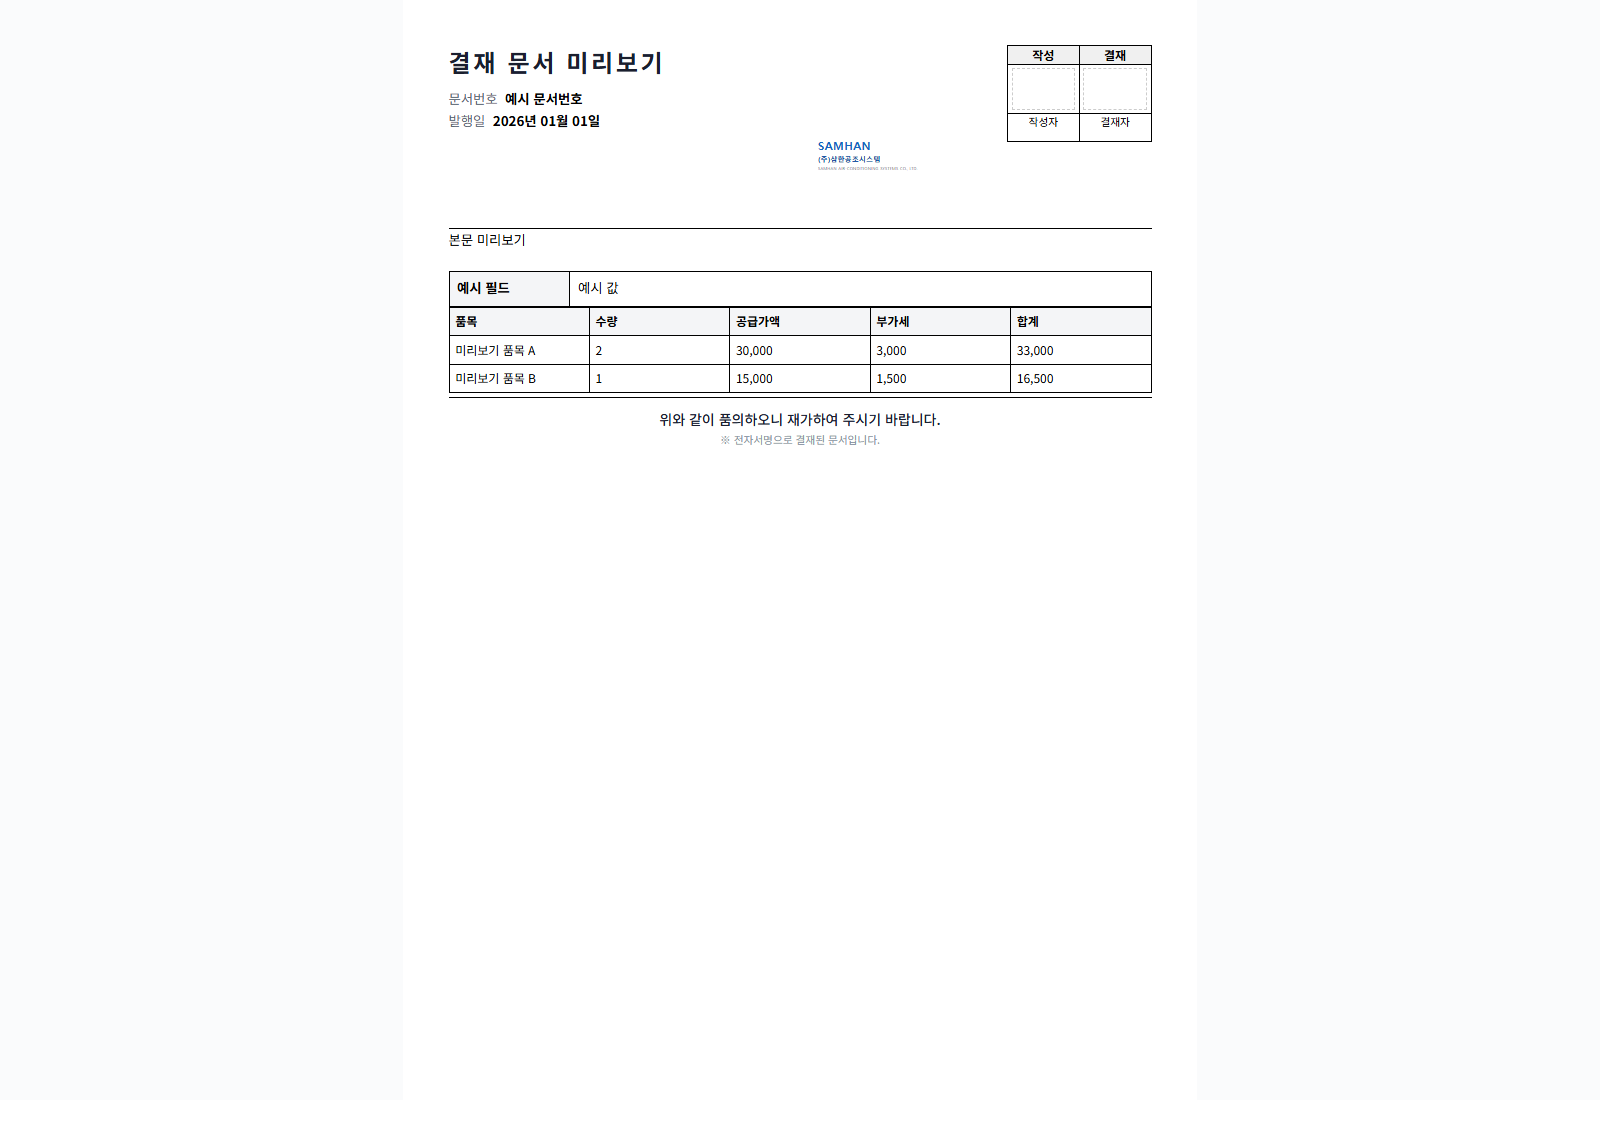
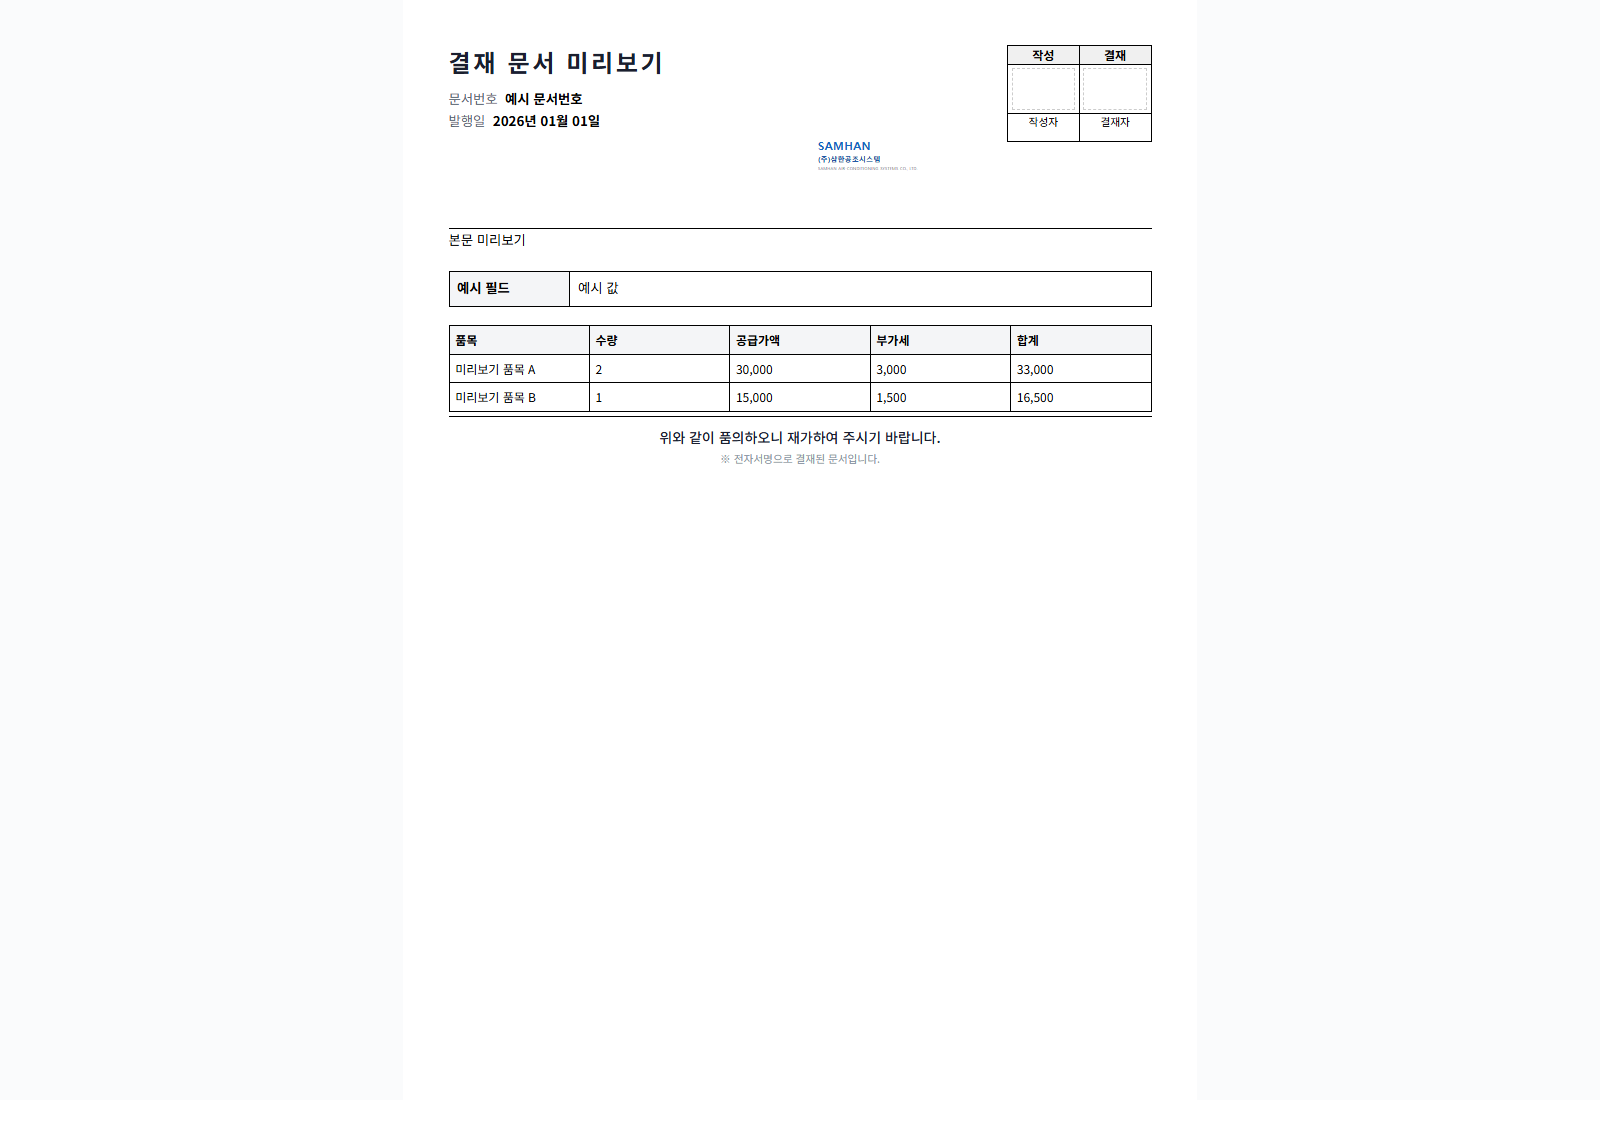
fix(869-DS4): 🔴 BODY 복수 positioned 요소가 각각 별도 밴드로 출력되는 회귀 (SOL 도달가능)
CODEX SOL 5.6 재수렴 라운드가 baseline diff 확증과 함께 잡아낸 [NEW][MAJOR] 도달가능 결함.

■ 사용자가 겪던 것
편집기에서 TEXT 와 FIELD 를 BODY 에 같은 y·다른 x 로 나란히 배치해도 나란히
나오지 않고, 두 번째 요소가 약 29mm 아래로 밀렸다. 요소마다 min-height:24mm
레이어가 생기고 grid gap 5mm 까지 더해졌기 때문이다.
기존 v2 양식의 페이지 길이·요소 위치가 바뀌고 뒤 내용이 다음 페이지로 밀릴 수 있었다.
🚨 DETAIL/IMAGE 가 없어도 재현되므로 활성화 게이트가 막아 주지 않았다.

■ 회귀 확정 (baseline diff)
  baseline e762a98a1  positionedElementLayer(bodyPositioned, …)  ← 전체를 한 번
  회귀     b7f3fccc5   positionedElementLayer([element], …)       ← 요소마다 한 번
요소 N개 → 레이어 N개. SOL 직접 재현: BODY_LAYER_COUNT=2 · MIN_HEIGHT_24MM_COUNT=2
이 PR 이 새로 만든 [NEW] 회귀임을 확증했다.

■ 불변식 충족 (PM 은 불변식만 전달, 구현 수단은 구현자 판단)
  R1 같은 좌표 원점   BODY 콘텐츠 자체를 단일 position:relative 원점으로 사용
  R2 문서 길이 불변   min-height:24mm 예약을 BODY 전체에서 한 번만 적용
  R3 O1 순서 유지     bodyElements.map 순서 유지·요소 재조립 없음
                      🔑 요소별 분리는 legacy 섹션 대비 선언 순서를 얻으려 도입된 것이라,
                         순서를 되돌려 해결하는 것은 결함을 다른 결함으로 바꾸는 것일 뿐이다
  R4 v1 DOM 불변      v1 은 positionedLayer=false 로 기존 DOM/스타일 유지

■ RED-first
  RED        AssertionError: expected +0 to be 1   (1 failed | 13 passed)
  GREEN      14 passed (14)
  뮤테이션    fix 되돌림 → 동일 RED 재현
🔑 기존 테스트가 이 회귀를 놓친 이유 = DocumentRenderer.test.tsx:158 이 정확히
   BODY TEXT+FIELD 두 개를 쓰면서도 문자열 존재만 검사해 레이어 수·좌표 원점·
   실제 rect 를 안 봤다. 새 테스트는 구별되는 출력을 단언한다.

■ 검증
  DocumentRenderer + fixtures   22 passed (22)
  eslint                        exit 0
  desktop typecheck             RC=0 · error 0

⚠ 구현자가 "SlipFormPage.tsx 타입 오류 잔존" 을 보고했으나 PM 확인 결과
[…]

Changed region(s): [[0.2812, 0.2805, 0.7188, 0.4363], [0.375, 0.2805, 0.4062, 0.3117]]

diff --git a/clients/desktop/src/renderer/print/DocumentRenderer.tsx b/clients/desktop/src/renderer/print/DocumentRenderer.tsx
@@ -269,6 +269,7 @@ export function compileApprovalDocument(
   const footerPositioned = positionedElementsOf(
     template.document.bands.filter((band) => band.kind === 'FOOTER').flatMap((band) => band.elements),
   )
+  const bodyPositioned = positionedElementsOf(bodyElements)
 
   const docHeader: PrintDocHeader = {
     title: model.header.title,
@@ -291,10 +292,12 @@ export function compileApprovalDocument(
       )
     }
     if (element.type === 'FIELD' || element.type === 'TEXT' || element.type === 'IMAGE') {
-      return positionedElementLayer([element], model, `document-template-v2-element-${element.key}`, element.key)
+      return element.type === 'IMAGE'
+        ? renderImageElement(element)
+        : renderPositionedElement(element, model)
     }
     return null
-  }).filter((child): child is ReactNode => child !== null)
+  }).filter((child) => child !== null)
 
   return {
     paper: paperToPrintLayout(template.document.paper),
@@ -304,7 +307,7 @@ export function compileApprovalDocument(
     // BODY children은 band의 원래 element 순서 그대로 하나의 print-content wrapper에 넣는다.
     // DETAIL/legacy section/positioned element를 별도 레이어로 재조립하면 편집기 순서와 출력 순서가
     // 갈라지므로, 같은 배열을 preview와 print가 공유한다.
-    body: <LegacyApprovalDocBody>{bodyChildren}</LegacyApprovalDocBody>,
+    body: <LegacyApprovalDocBody positionedLayer={bodyPositioned.length > 0}>{bodyChildren}</LegacyApprovalDocBody>,
     headerExtra: positionedElementLayer(headerPositioned, model, 'document-template-v2-elements-header'),
     footerExtra: positionedElementLayer(footerPositioned, model, 'document-template-v2-elements-footer'),
     hasRepeatingDetail: bodyDetails.length > 0,

diff --git a/clients/desktop/src/renderer/print/DocumentRenderer.test.tsx b/clients/desktop/src/renderer/print/DocumentRenderer.test.tsx
@@ -182,6 +182,43 @@ describe('compileApprovalDocument and DocumentRenderer', () => {
     expect(html).toContain('DOC-2026-001')
   })
 
+  it('DS-4 regression: BODY positioned 요소는 하나의 좌표 레이어를 공유한다', () => {
+    const model = buildApprovalRenderModel(input())
+    const template = {
+      ...GROUPWARE_DEFAULT,
+      schemaVersion: 2 as const,
+      document: {
+        ...GROUPWARE_DEFAULT.document,
+        bands: GROUPWARE_DEFAULT.document.bands.map((band) => band.kind === 'BODY'
+          ? {
+              ...band,
+              elements: [
+                {
+                  key: 'body-text-left',
+                  type: 'TEXT' as const,
+                  text: '왼쪽 본문 요소',
+                  geometry: { x: 10, y: 20, w: 20, h: 5 },
+                },
+                {
+                  key: 'body-field-right',
+                  type: 'FIELD' as const,
+                  binding: 'header.docNo' as const,
+                  geometry: { x: 60, y: 20, w: 20, h: 5 },
+                },
+              ],
+            }
+          : band),
+      },
+    }
+
+    const html = render(<DocumentRenderer template={template as never} model={model} />)
+
+    expect((html.match(/data-testid="document-template-v2-elements-body"/g) ?? []).length).toBe(1)
+    expect((html.match(/style="[^"]*position:relative;min-height:24mm/g) ?? []).length).toBe(1)
+    expect(html).toContain('data-template-element="body-text-left"')
+    expect(html).toContain('data-template-element="body-field-right"')
+  })
+
   it('기본 template을 PrintLayout props 동형 slot으로 compile한다', () => {
     const model = buildApprovalRenderModel(input())
     const compiled = compileApprovalDocument(GROUPWARE_DEFAULT, model)

diff --git a/clients/desktop/src/renderer/print/LegacyApprovalDocBody.tsx b/clients/desktop/src/renderer/print/LegacyApprovalDocBody.tsx
@@ -15,6 +15,8 @@ export type LegacyApprovalDocSection =
 export interface LegacyApprovalDocBodyProps {
   orderedSections?: LegacyApprovalDocSection[]
   children?: ReactNode
+  /** BODY positioned 요소가 공유할 단일 좌표 원점과 24mm 최소 예약을 활성화한다. */
+  positionedLayer?: boolean
 }
 
 function renderSection(section: LegacyApprovalDocSection): React.ReactNode {
@@ -113,11 +115,20 @@ export function LegacyApprovalDocSection({ section }: { section: LegacyApprovalD
 }
 
 /** 기존 본문 외곽 div를 정확히 한 번 출력한다. */
-export function LegacyApprovalDocBody({ orderedSections = [], children }: LegacyApprovalDocBodyProps) {
+export function LegacyApprovalDocBody({ orderedSections = [], children, positionedLayer = false }: LegacyApprovalDocBodyProps) {
   return (
     <div
-      className="approval-doc-print-content"
-      style={{ display: 'grid', gap: '5mm', color: '#000', fontSize: '10pt' }}
+      className={positionedLayer
+        ? 'approval-doc-print-content document-template-v2-elements'
+        : 'approval-doc-print-content'}
+      {...(positionedLayer ? { 'data-testid': 'document-template-v2-elements-body' } : {})}
+      style={{
+        display: 'grid',
+        gap: '5mm',
+        color: '#000',
+        fontSize: '10pt',
+        ...(positionedLayer ? { position: 'relative', minHeight: '24mm' } : {}),
+      }}
     >
       {children ?? orderedSections.map((section, index) => (
         <Fragment key={`${section.type}-${index}`}>
